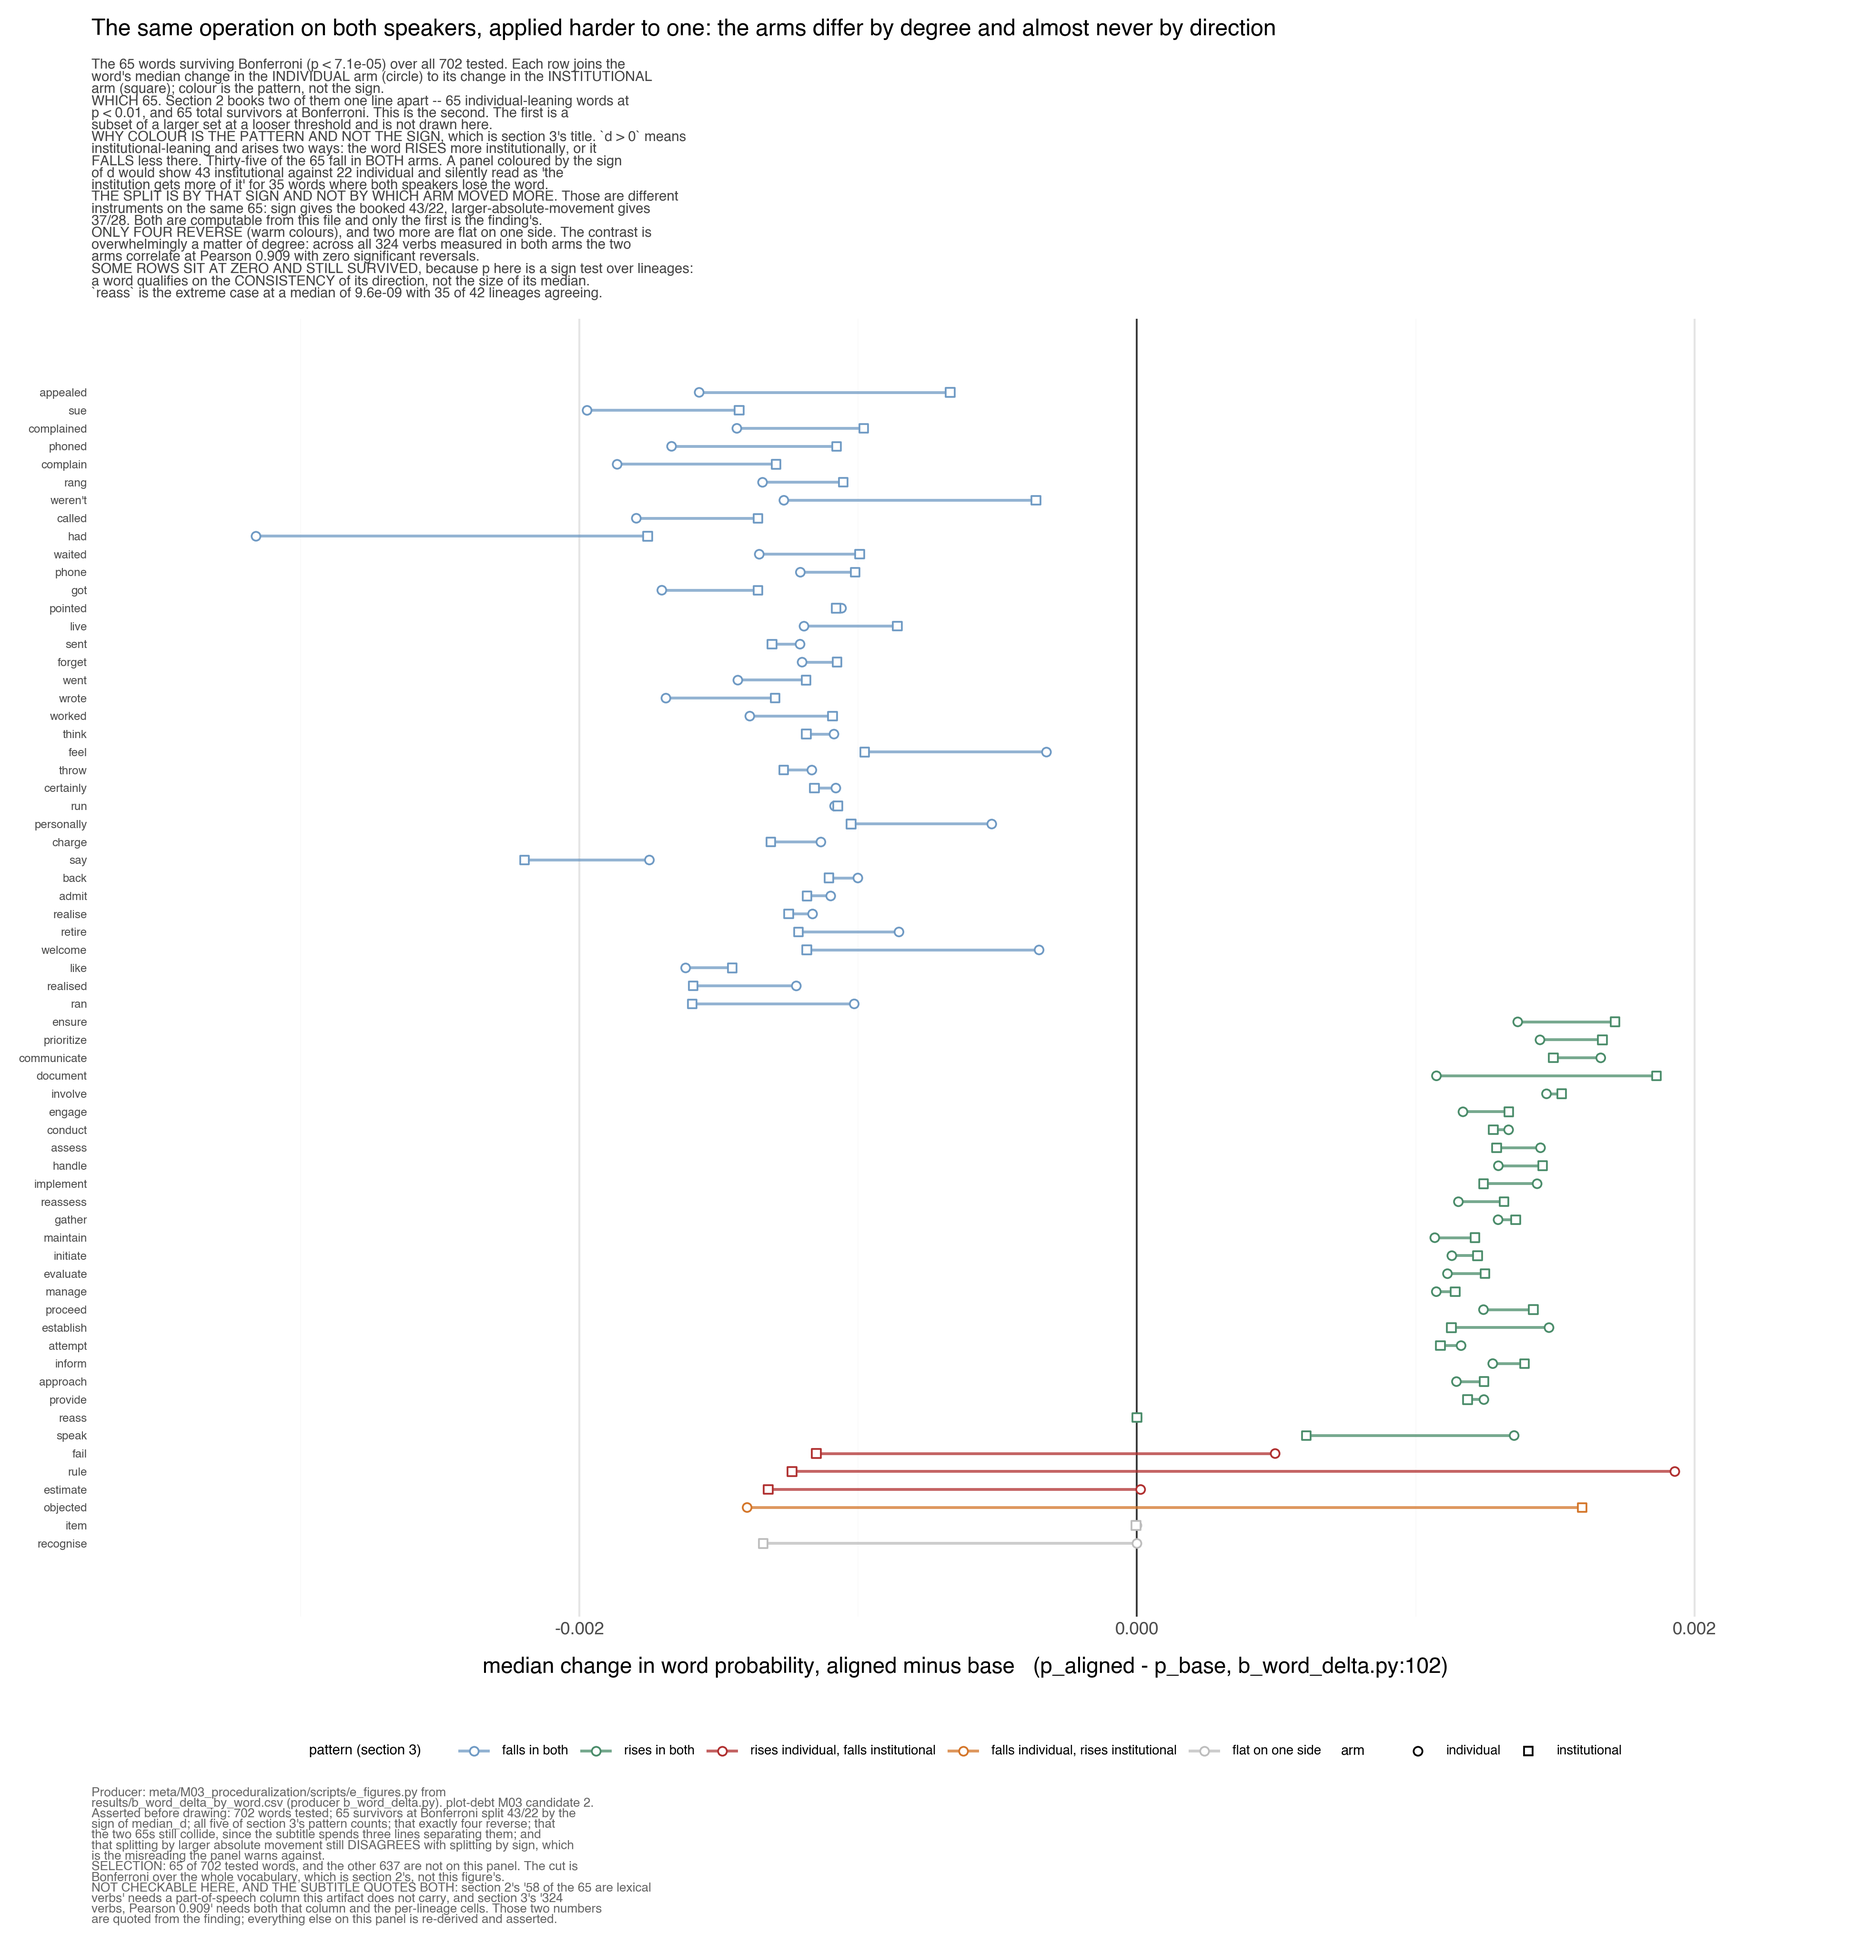
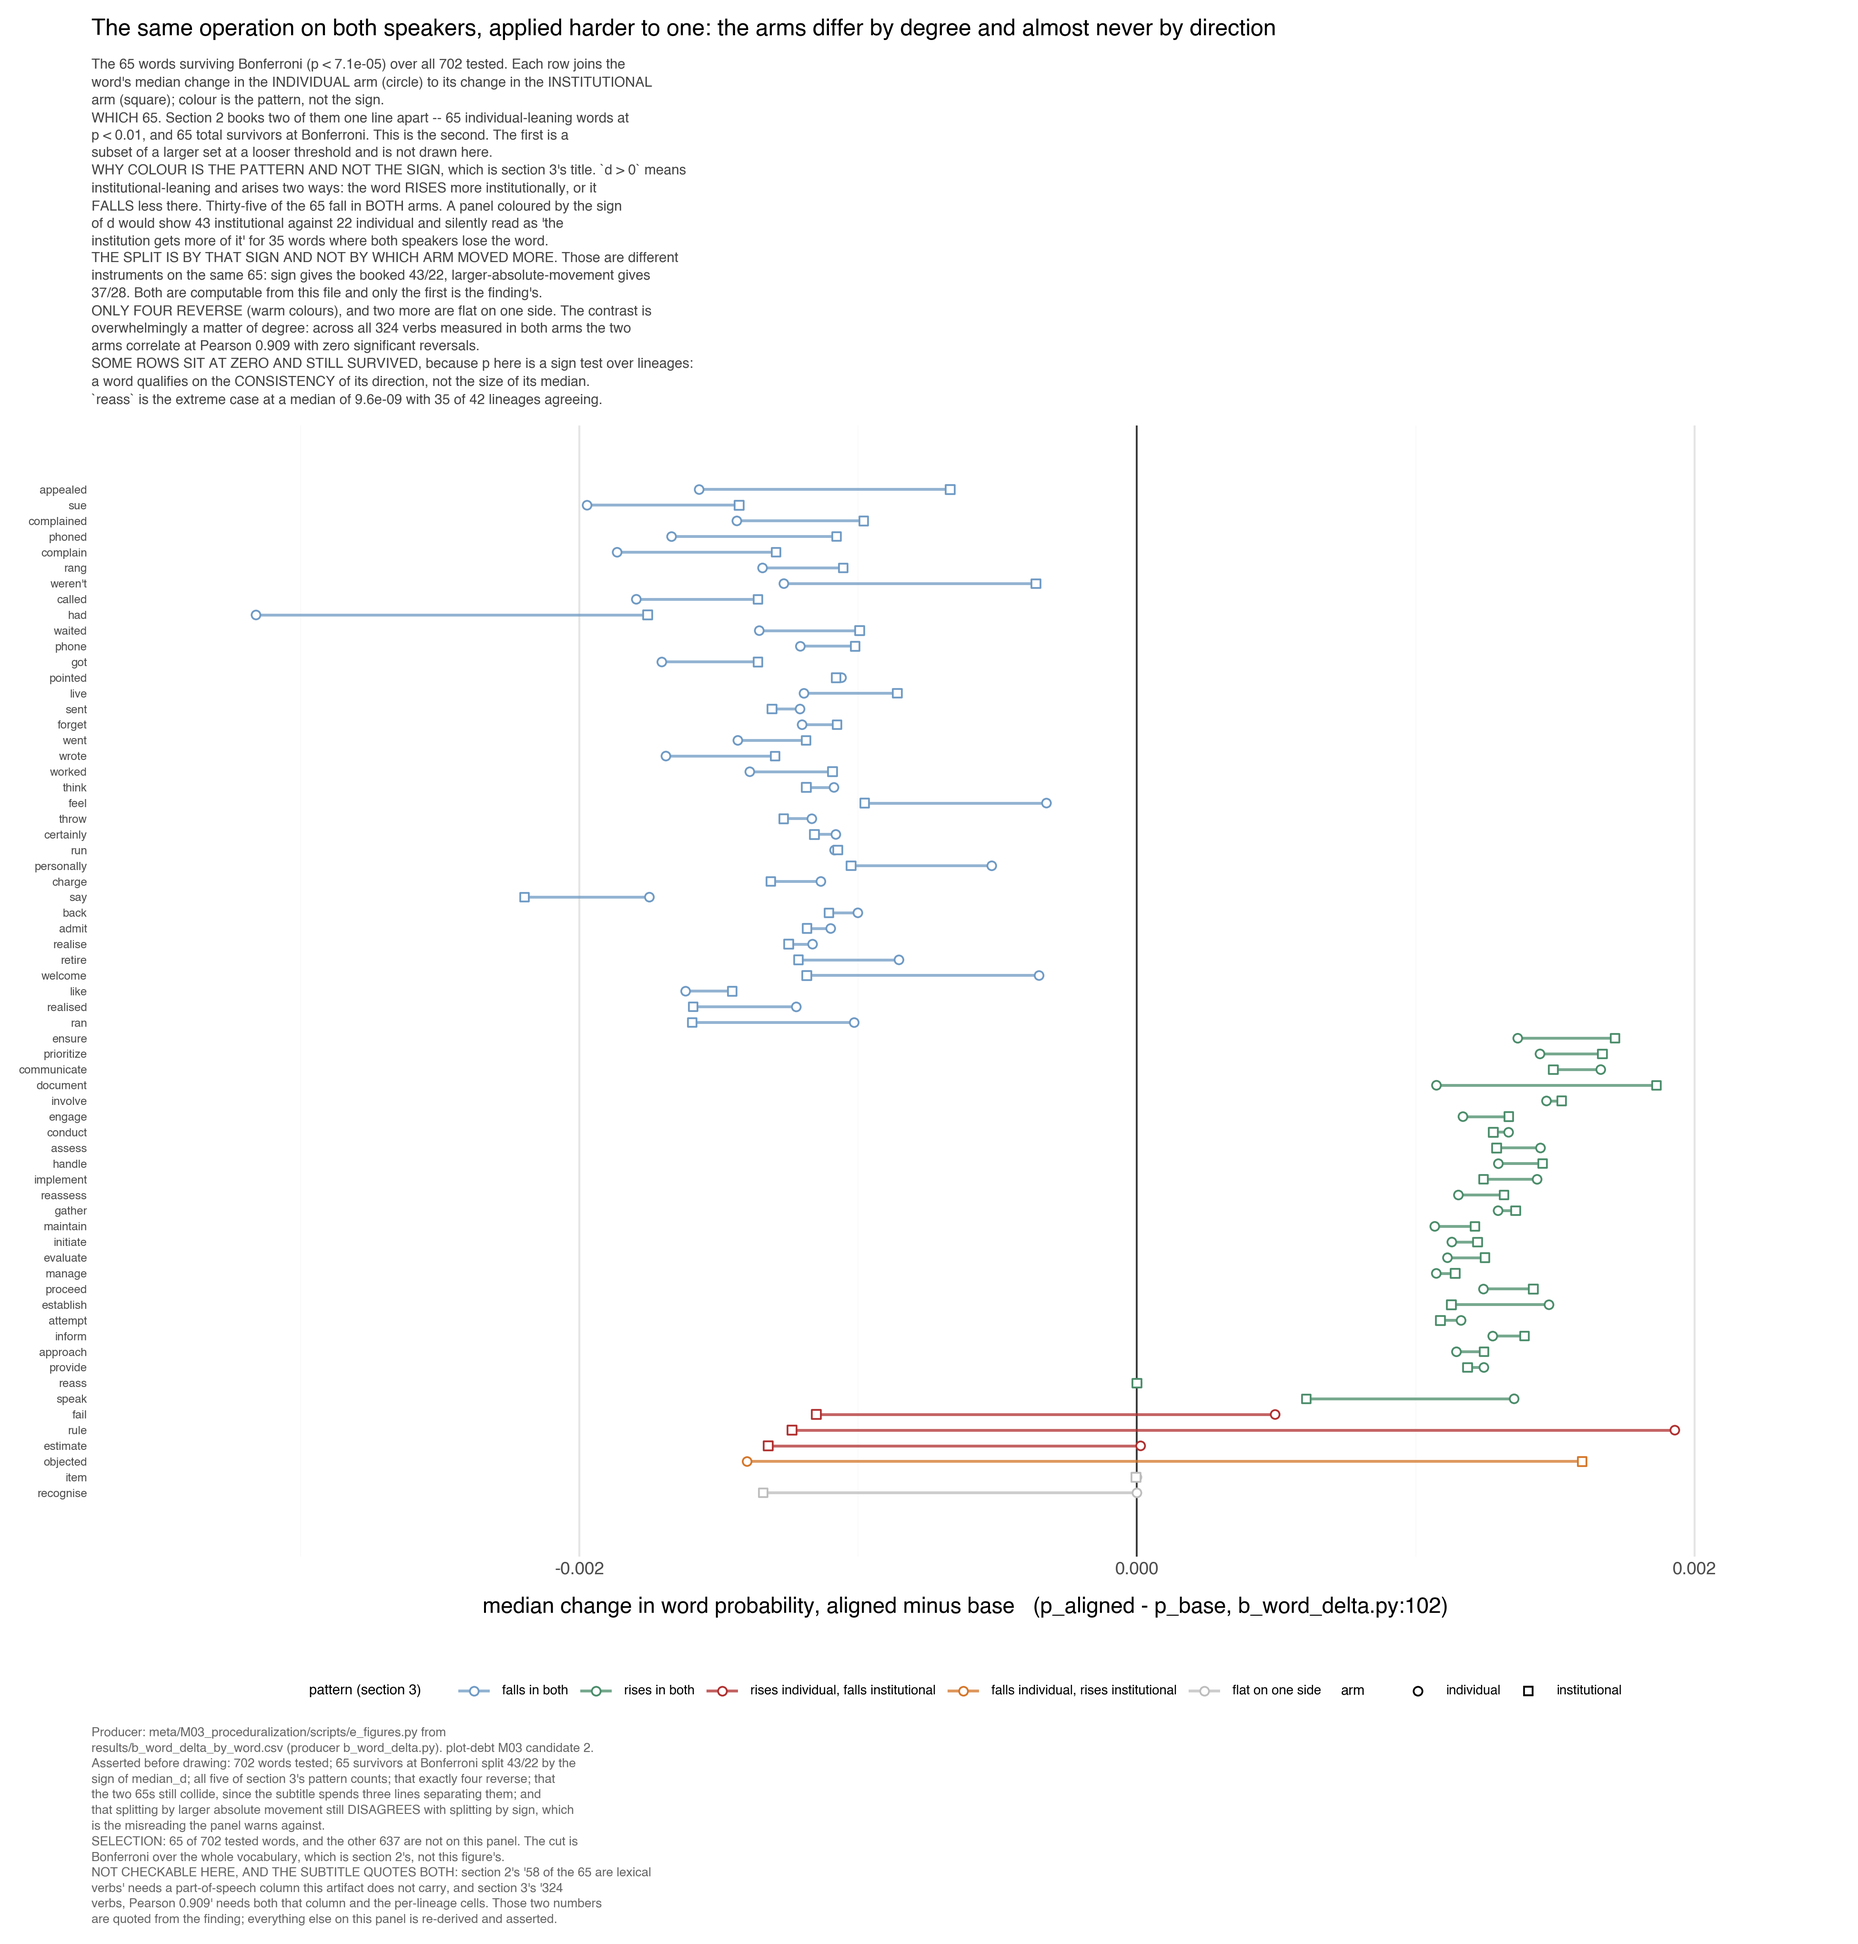
M03: dumbbell leading, because a fence nobody can read does not travel
plotnine's default leading on a multi-line subtitle sets descenders against
the next line's ascenders at 7.0pt. Both text-audit modes pass the figure --
the lines are the right LENGTH and no ink reaches the edge -- and the block
is still hard to read, which matters for a panel whose whole argument is
three paragraphs of fence about which 65 this is and why colour is the
pattern rather than the sign.

Caught by cropping the header out of the rendered PNG and looking at it.
That is the third defect this week that only the image had: the others were
an axis labelled bits for a probability difference, and rows sitting at zero
with no explanation on a panel of significant words.

diff --git a/meta/M03_proceduralization/scripts/e_figures.py b/meta/M03_proceduralization/scripts/e_figures.py
@@ -374,8 +374,17 @@ def dumbbell():
         + theme_minimal()
         + theme(figure_size=(13.0, 13.6),
                 plot_title=element_text(size=11.5, weight="bold", ha="left"),
-                plot_subtitle=element_text(size=7.0, color="#444444", ha="left"),
-                plot_caption=element_text(size=6.3, color="#666666", ha="left"),
+                #: lineheight is not cosmetic here. plotnine's default leading
+                #: on a multi-line subtitle sets descenders against the next
+                #: line's ascenders at these sizes, and a fence nobody can read
+                #: is a fence that does not travel. Caught by cropping the
+                #: header out of the PNG and looking, which is the only
+                #: instrument that sees it: both text audit modes pass, because
+                #: the lines are the right LENGTH.
+                plot_subtitle=element_text(size=7.0, color="#444444", ha="left",
+                                           lineheight=1.45),
+                plot_caption=element_text(size=6.3, color="#666666", ha="left",
+                                          lineheight=1.45),
                 axis_text_y=element_text(size=5.8),
                 panel_grid_major_y=element_blank(),
                 panel_grid_minor_y=element_blank(),
